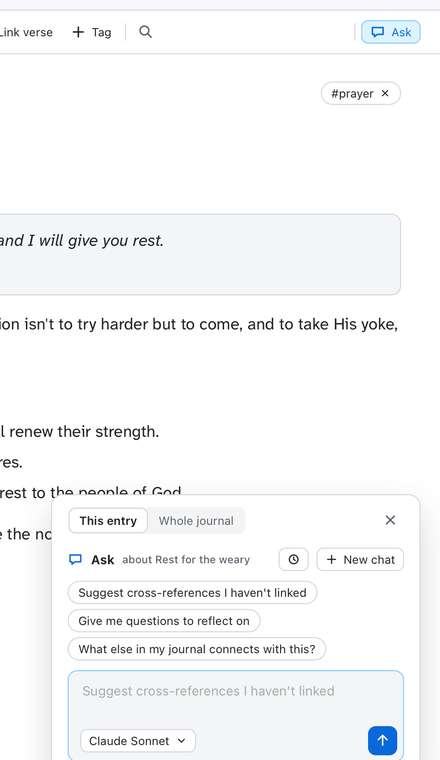
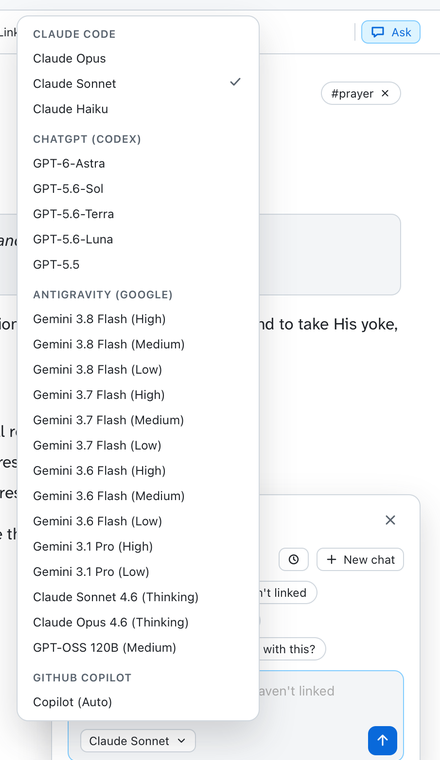
Screenshot scenes wait for the assistant check before clicking; ask-models retaken
The model menu was opened before the models had come back, and the shot
taken before they did. A scene's clicks now wait for the check (up to
15s), and a scene's "settle" sets when its snapshot is taken (ask-models:
12s).

diff --git a/src/scene.ts b/src/scene.ts
@@ -7,6 +7,7 @@
 
 import { api, JournalEntry, setReadOnly, setSceneJournal } from "./api";
 import { setSceneChat } from "./Ask";
+import { assistantChecked } from "./assistant";
 import { Chat, Loc, Pending, Screen, Session, Settings, useApp } from "./state";
 import type { PlayerState } from "./speech";
 import { setSceneVariances, VarianceFile } from "./variances";
@@ -146,16 +147,16 @@ export function runScene(app: ReturnType<typeof useApp>, still: (s: Partial<Play
           };
           go();
         };
-        if (sc.click || sc.type || sc.clickText)
-          window.setTimeout(
-            () => {
-              if (sc.clickText) {
-                clickText(sc.clickText);
-                window.setTimeout(click, 700);
-              } else click();
-            },
-            sc.journal && sc.entries ? 4300 : 2800,
-          );
+        // Once the assistant check is back too (up to 15s), so the model menu has its models.
+        const start = () => {
+          if (sc.clickText) {
+            clickText(sc.clickText);
+            window.setTimeout(click, 700);
+          } else click();
+        };
+        const checked = (at = Date.now()) =>
+          assistantChecked() || Date.now() - at > 15000 ? start() : window.setTimeout(() => checked(at), 200);
+        if (sc.click || sc.type || sc.clickText) window.setTimeout(() => checked(), sc.journal && sc.entries ? 4300 : 2800);
         if (sc.selectPara) {
           const n = sc.selectPara;
           window.setTimeout(() => (document.querySelector(`[data-seg="${n}"]`) as HTMLElement | null)?.click(), 2000);

diff --git a/src/assistant.ts b/src/assistant.ts
@@ -83,6 +83,9 @@ export function refreshAssistant() {
 }
 refreshAssistant();
 
+/** Whether the first check has returned (screenshot scenes wait for it before opening the model menu). */
+export const assistantChecked = () => state.status !== null;
+
 /** The models on offer now, for code outside a component. */
 export const assistantModels = () => state.models;
 

diff --git a/tools/screenshots.py b/tools/screenshots.py
@@ -83,7 +83,7 @@ def capture(scene, theme):
     """Launches the app on the scene, unseen, and returns its webview's snapshot as an sRGB image, or None."""
     # A fixture from a file beside scenes.json: "chatFile" becomes "chat", and so on.
     files = {"chatFile": "chat", "sessionFile": "session", "entriesFile": "entries", "variancesFile": "variances", "songFile": "song"}
-    sc = {k: v for k, v in scene.items() if k not in files and k not in ("crop", "width")}
+    sc = {k: v for k, v in scene.items() if k not in files and k not in ("crop", "width", "settle")}
     for f, k in files.items():
         if f in scene:
             sc[k] = json.loads((HERE / scene[f]).read_text())
@@ -91,11 +91,11 @@ def capture(scene, theme):
     sc["settings"] = {"favBibles": [], **sc.get("settings", {}), "theme": theme}
     with tempfile.TemporaryDirectory() as tmp:
         shot = pathlib.Path(tmp) / "shot.tiff"
-        env = {**os.environ, "TES_SCENE": json.dumps(sc), "TES_SNAPSHOT": str(shot), "TES_SNAPSHOT_AFTER": str(SETTLE)}
+        env = {**os.environ, "TES_SCENE": json.dumps(sc), "TES_SNAPSHOT": str(shot), "TES_SNAPSHOT_AFTER": str(scene.get("settle", SETTLE))}
         app = subprocess.Popen([str(BIN)], cwd=ROOT / "src-tauri", env=env, stdout=subprocess.DEVNULL, stderr=subprocess.DEVNULL)
         try:
             # The app writes the file whole (atomically) once WebKit has drawn it.
-            end = time.time() + SETTLE + 30
+            end = time.time() + scene.get("settle", SETTLE) + 30
             while not shot.exists() and app.poll() is None and time.time() < end:
                 time.sleep(0.2)
             if not shot.exists():
